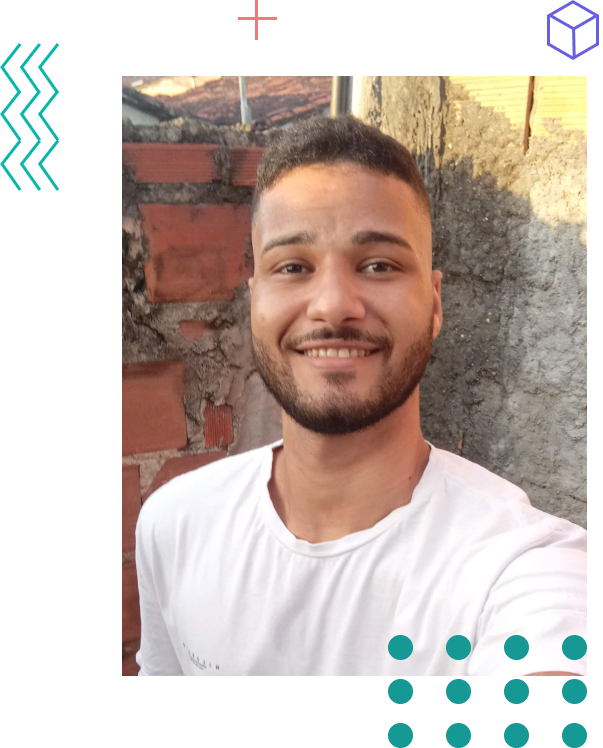
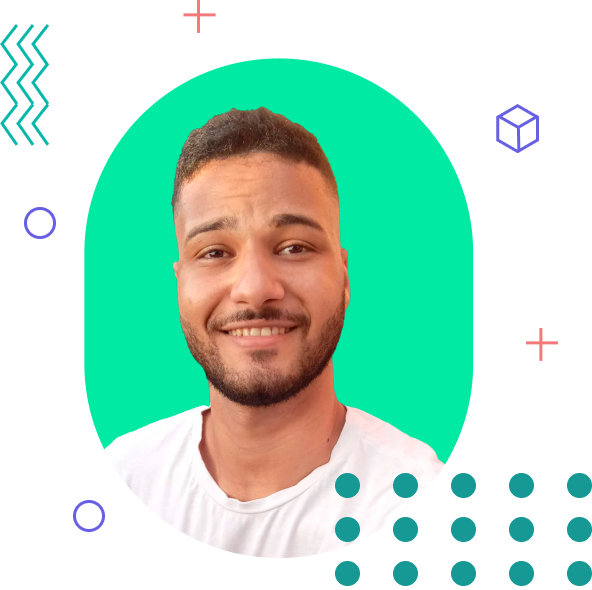
Atualizações de perfil

diff --git a/index.html b/index.html
@@ -55,10 +55,10 @@
 		</div>
 
 		<div class="about-me-informations">
-			<h1 class="title hight-title">Jean Janrley</h1>
+			<h1 class="title hight-title">Sobre mim</h1>
 			<p>
-				Olá, seja bem-vindo! Meu nome Jean Janrley, tenho 23 anos, moro em Camaçari – BA e
-				curso Desenvolvimento de sistemas no Senai (06/2022 - 12/2023).<br /><br />
+				Olá, seja bem-vindo! Meu nome é Jean Janrley, tenho 23 anos, moro em Camaçari – BA e
+				curso Téc. em desenvolvimento de sistemas no Senai.<br /><br />
 				Tenho dois anos de experiencia como desenvolvedor Front End e Mobile, mas sou amante de computação desde
 				os 12 anos de idade, e desde então venho estudando sobre o assunto,
 				buscando sempre me especializar na programação, tendo como principal objetivo me tornar um desenvolvedor

diff --git a/styles.css b/styles.css
@@ -186,7 +186,7 @@ a {
 }
 
 .about-me-informations p {
-	font-size: 16pt;
+	font-size: 14pt;
 	font-weight: 300;
 }
 
@@ -227,7 +227,7 @@ a {
 }
 
 .profile-image {
-	width: 60%;
+	width: 75%;
 	transition: all 0.3s ease-in-out;
 }
 
@@ -276,7 +276,7 @@ a {
 }
 
 .illustration-skills-image {
-	width: 60%;
+	width: 70%;
 }
 
 #third-section {
